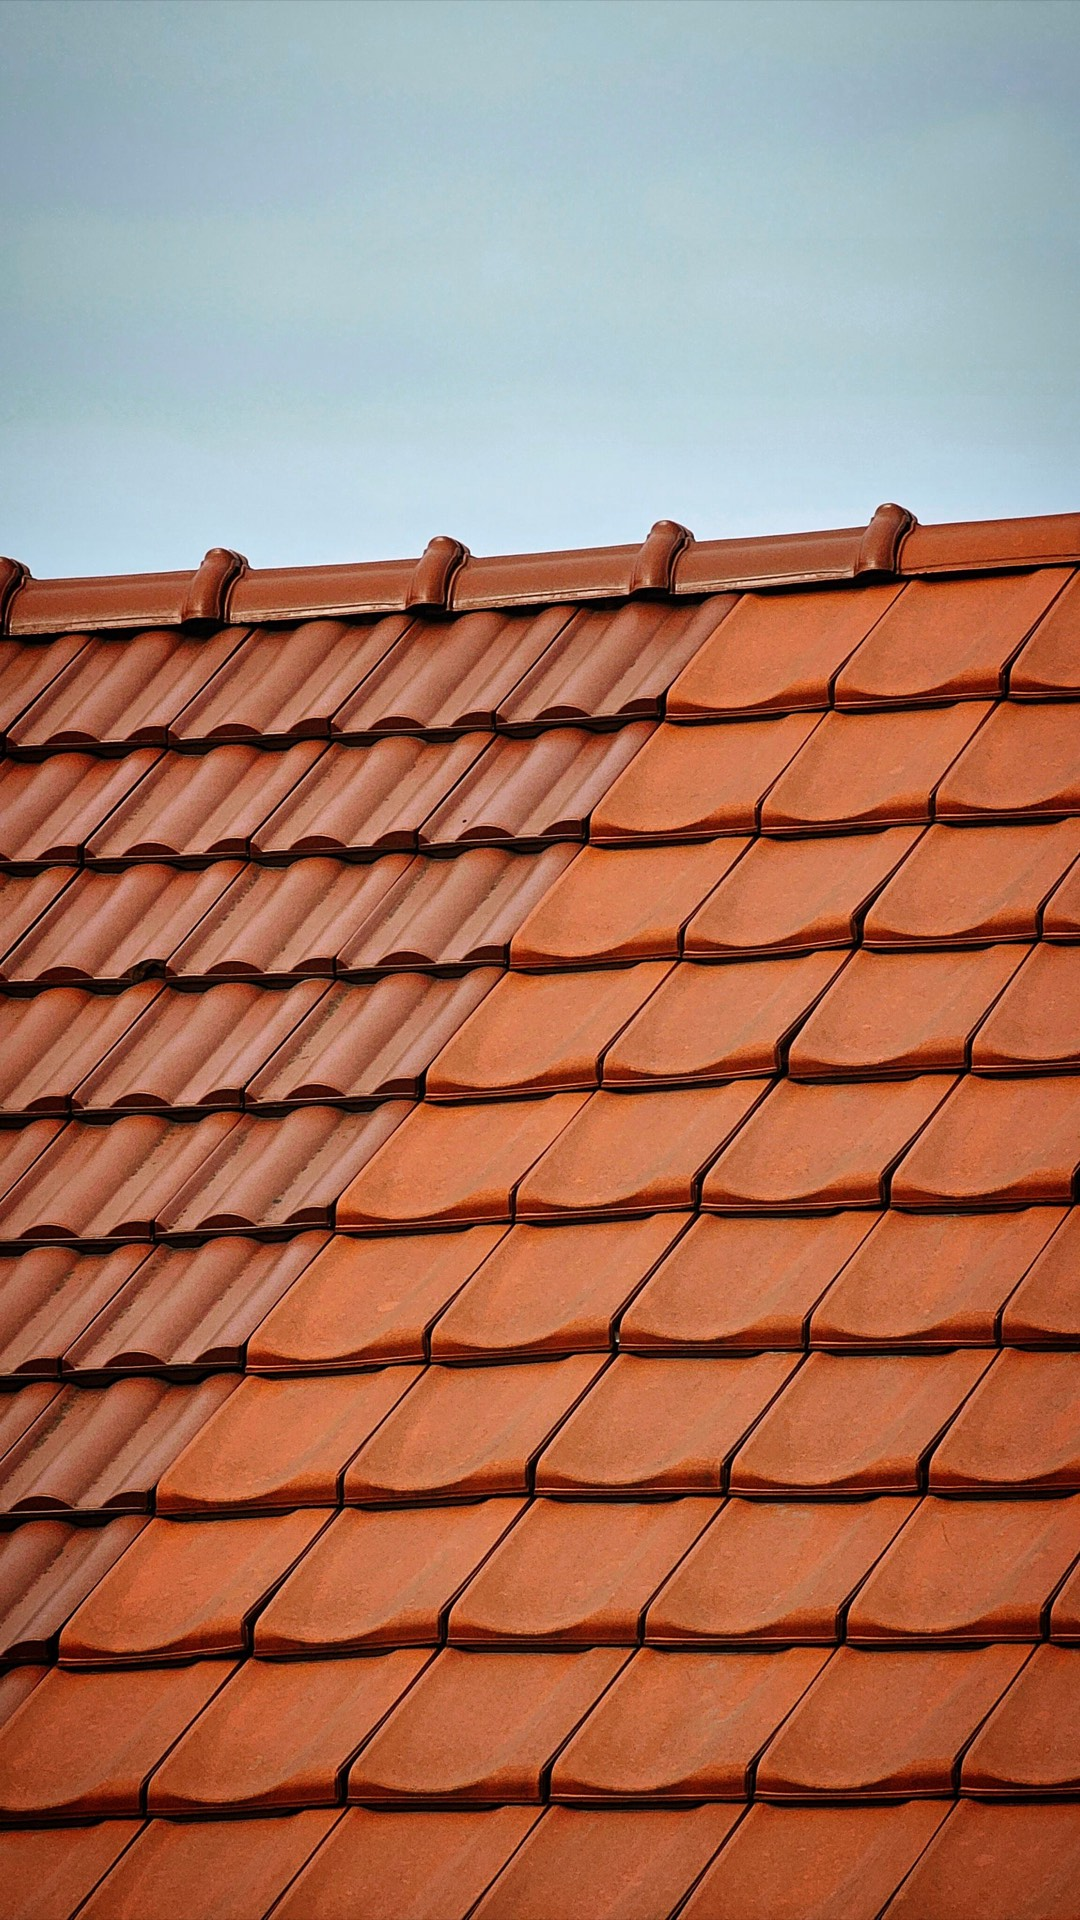
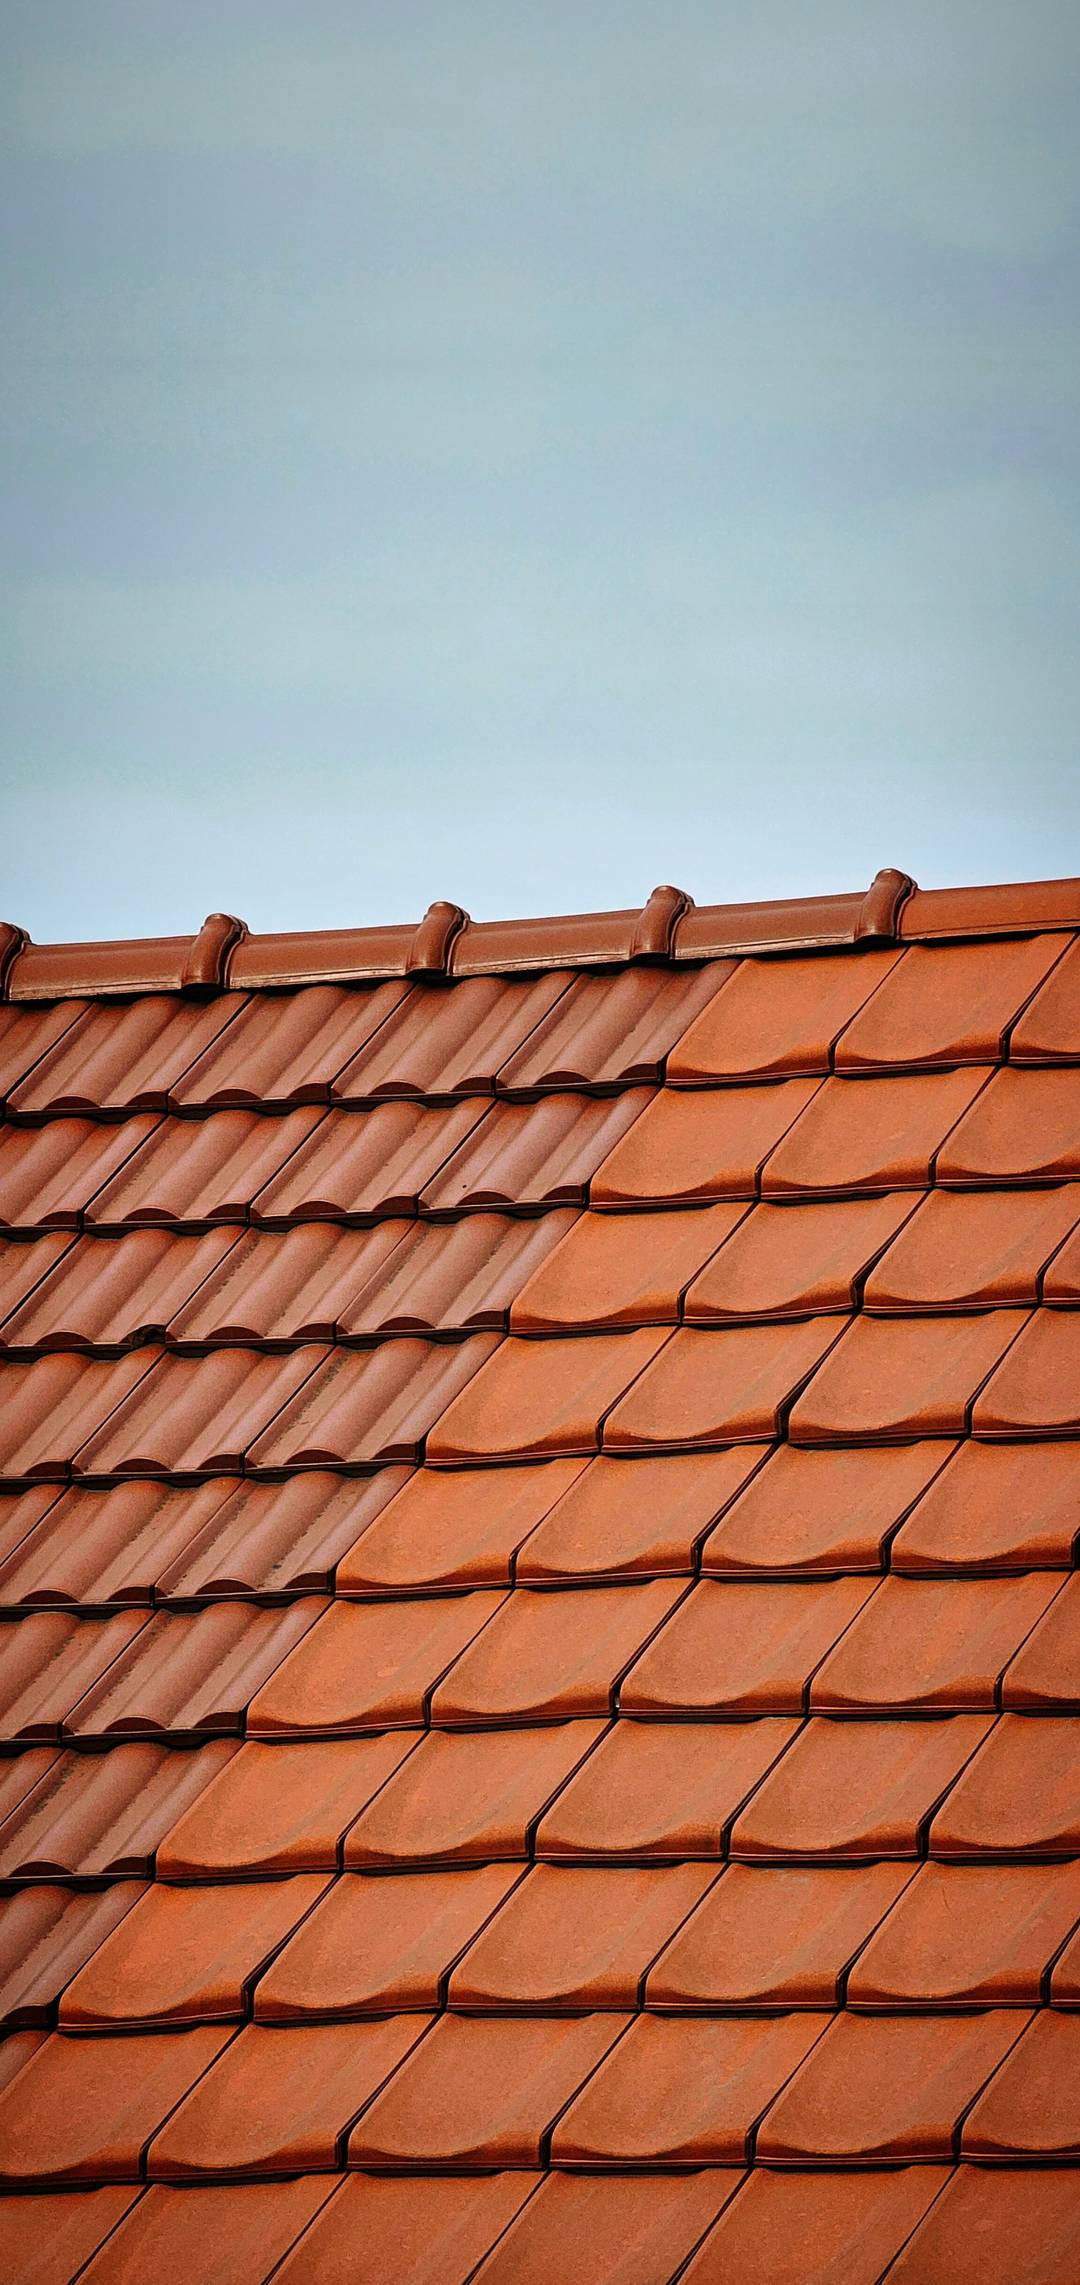
fix: header mobile, ciel prolongé et cadrage ajusté pour que le titre soit lisible sur le ciel
- Image header mobile: ciel étendu (raccord invisible) pour placer le titre sur le ciel
- CSS mobile: object-position du poster réglé pour faire descendre la ligne de faîtage sous le texte d'intro

diff --git a/index.html b/index.html
@@ -111,7 +111,7 @@
   .blog-card .readmore { font-weight: 800; font-size: 14.5px; color: #2A46E0; }
 
   /* Corrections mobile */
-  @media (max-width: 600px) { .installer-line { flex-direction: column; gap: 8px; } #realisations .card img { height: auto !important; } }
+  @media (max-width: 600px) { .installer-line { flex-direction: column; gap: 8px; } #realisations .card img { height: auto !important; } #hero-video { object-position: 50% 0% !important; } .hero-bg { background-position: center top !important; } }
   @media (max-width: 480px) { .header-tel { display: none !important; } }
   @media (max-width: 760px) { .why-intro { position: static !important; top: auto !important; } }
 
@@ -228,7 +228,7 @@
   <main id="top">
 
     <section aria-labelledby="hero-title" style="position:relative;background:#FAF4EC;overflow:hidden;isolation:isolate">
-      <div aria-hidden="true" style="position:absolute;inset:0;background:#efe7da center/cover no-repeat url('assets/hero-couverture-metz.jpg')">
+      <div class="hero-bg" aria-hidden="true" style="position:absolute;inset:0;background:#efe7da center/cover no-repeat url('assets/hero-couverture-metz.jpg')">
         <video id="hero-video" muted loop playsinline preload="none" poster="assets/hero-couverture-metz.jpg" data-src="assets/couvreur-metz-video.mp4" style="position:absolute;inset:0;width:100%;height:100%;object-fit:cover;object-position:50% 45%"></video>
       </div>
       <div aria-hidden="true" style="position:absolute;inset:0;background:linear-gradient(100deg,rgba(250,244,236,0.97) 0%,rgba(250,244,236,0.92) 40%,rgba(250,244,236,0.55) 70%,rgba(250,244,236,0.15) 100%)"></div>
